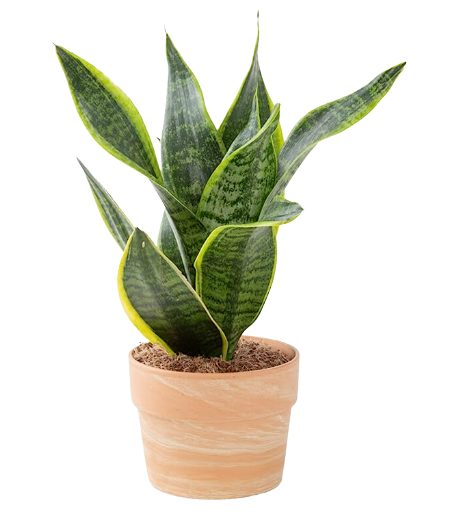
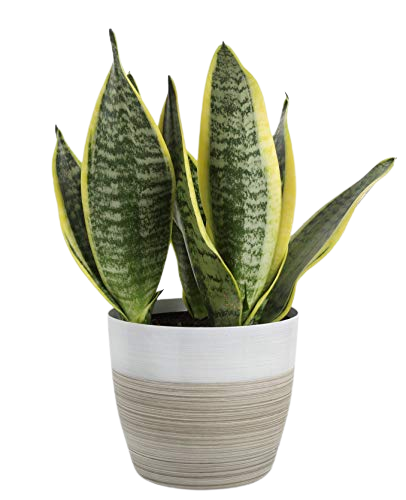
finish_landing

diff --git a/lib/main.dart b/lib/main.dart
@@ -1,11 +1,12 @@
 import 'package:flutter/material.dart';
 import 'package:google_fonts/google_fonts.dart';
+import 'package:plantui_heyflutter/CarouselImg3.dart';
 import 'package:plantui_heyflutter/landing_slogan_1.dart';
 import 'package:plantui_heyflutter/landing_slogan_2.dart';
-import 'package:plantui_heyflutter/landingscreen_1.dart';
+import 'package:plantui_heyflutter/CarouselImg1.dart';
 import 'package:smooth_page_indicator/smooth_page_indicator.dart';
 import 'homepage.dart';
-import 'landingscreen_2.dart';
+import 'CarouselImg2.dart';
 
 void main() {
   runApp(const MyApp());
@@ -219,10 +220,9 @@ class _LandingPageState extends State<LandingPage> {
                     child: PageView(
                       controller: _controller,
                       children: const [
-                        LandingScreen1(),
-                        LandingScreen2(),
-                        LandingScreen1(),
-                        LandingScreen2(),
+                        carouselImg1(),
+                        carouselImg2(),
+                        carouselImg3(),
                       ],
                     ),
                   ),
@@ -232,17 +232,16 @@ class _LandingPageState extends State<LandingPage> {
                     ),
                     child: SmoothPageIndicator(
                       controller: _controller,
-                      count: 4,
+                      count: 3,
                       effect: ExpandingDotsEffect(
                         dotHeight: 6.0,
                         dotWidth: 6.0,
-                        spacing: 4.0,
                         activeDotColor: Colors.grey.shade700,
                       ),
                     ),
                   ),
                   const SizedBox(
-                    height: 25.0,
+                    height: 15.0,
                   ),
                   Center(
                     child: RichText(
@@ -271,19 +270,19 @@ class _LandingPageState extends State<LandingPage> {
                   ),
                   Padding(
                     padding:
-                    const EdgeInsets.symmetric(vertical: 10.0, horizontal: 0.0),
+                    const EdgeInsets.symmetric(vertical: 20.0, horizontal: 0.0),
                     child: SizedBox(
                       height: 80,
                       width: 80,
                       child: FloatingActionButton(
                         onPressed: () {
                           // Navigate to the next page
-                          if (currentPage < 3) {
+                          if (currentPage < 2) {
                             print(currentPage);
                             _controller.animateToPage(currentPage + 1,
                                 duration: Duration(milliseconds: 500),
                                 curve: Curves.ease);
-                          } else if(currentPage >= 3) {
+                          } else if(currentPage >= 2) {
                             Navigator.push(
                               context,
                               MaterialPageRoute(
@@ -293,12 +292,12 @@ class _LandingPageState extends State<LandingPage> {
                           }
                         },
                         backgroundColor: Colors.lightGreen[600],
-                        child: currentPage < 3 ? const Icon(
+                        child: currentPage < 2 ? const Icon(
                           Icons.arrow_forward,
                           size: 40.0,
                         )
                         : const Icon(
-                      Icons.check,
+                      Icons.skip_next_rounded,
                       size: 40.0,
                       )
                     ),

diff --git a/lib/CarouselImg3.dart b/lib/CarouselImg3.dart
@@ -1,0 +1,12 @@
+import 'package:flutter/material.dart';
+
+class carouselImg3  extends StatelessWidget {
+  const carouselImg3 ({super.key});
+
+  @override
+  Widget build(BuildContext context) {
+    return const Image(
+        image: AssetImage('image/Smallplant.png'),
+    );
+  }
+}

diff --git a/lib/CarouselImg2.dart b/lib/CarouselImg2.dart
@@ -1,7 +1,7 @@
 import 'package:flutter/material.dart';
 
-class LandingScreen2  extends StatelessWidget {
-  const LandingScreen2 ({super.key});
+class carouselImg2  extends StatelessWidget {
+  const carouselImg2 ({super.key});
 
   @override
   Widget build(BuildContext context) {

diff --git a/lib/CarouselImg1.dart b/lib/CarouselImg1.dart
@@ -1,7 +1,7 @@
 import 'package:flutter/material.dart';
 
-class LandingScreen1 extends StatelessWidget {
-  const LandingScreen1({super.key});
+class carouselImg1 extends StatelessWidget {
+  const carouselImg1({super.key});
 
   @override
   Widget build(BuildContext context) {
